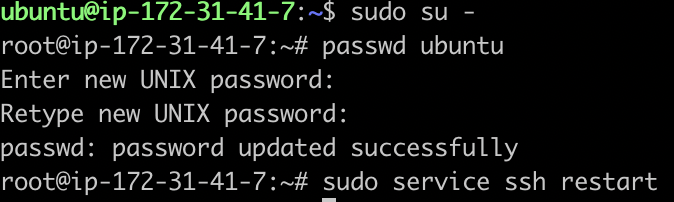
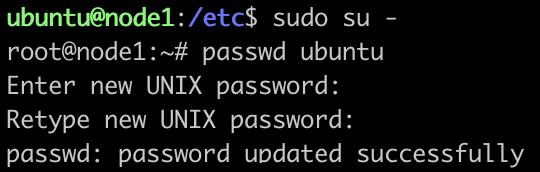
Update AWS Post " [AWS] EC2 Password로 접속하기 : Ubuntu Login with Password "

Changed region(s): [[0.0, 0.0, 0.7704, 0.814], [0.0, 0.814, 0.9778, 1.0], [0.7111, 0.0872, 0.7407, 0.1163]]

diff --git a/_posts/2017-10-30-Ubuntu-Login_Without_PublicKey.md b/_posts/2017-10-30-Ubuntu-Login_Without_PublicKey.md
@@ -1,80 +1,90 @@
 ---
 layout: post
-title:  " Ubuntu Login without Public Key "
+title:  " [AWS] EC2 Password로 접속하기 : Ubuntu Login with Password "
 categories: AWS
 author: goodGid
 ---
 * content
 {:toc}
 
+## Goal
 
-## Problem
+* AWS에서 생성한 EC2 인스턴스는 
 
-* 아마존 웹 서비스(AWS)에서 생성한 EC2 인스턴스는 
+  기본적으로 생성시 발급한 공개키(=**.pem**)로만 접근이 가능하다.
 
-* 기본적으로 생성시 발급한 공개키로만 접근이 가능하다.
-
-* 공개키 접속 방법이 가장 뛰어난 보안성을 제공하지만
-
-* 경우에 따라서 Password를 통한 Login이 필요하다.
-
+* 하지만 Password로 접근하는게 좀 더 편리하기 때문에 
+  
+  공개키가 아닌 Password로 접근하는 방법에 대해 알아보자.
 
 
 
 
 
-## How to Login Using Password
+
+## Login with Password
 
 * Environment : Ubuntu 16.04.3 LTS (GNU/Linux 4.4.0-1022-aws x86_64)
 
-### 1. Login with Public Key
+---
 
-```
+> Step 1. Login with Public Key
+
+``` shell
 ssh -i "goodgid-ec2.pem" ubuntu@ec2-13-124-47-92.ap-northeast-2.compute.amazonaws.com
 ```
 
-### 2. Access Config File
+---
 
-```
+
+> Step 2. Access Config File
+
+``` shell
 sudo vi /etc/ssh/sshd_config
 ```
 
-### 3. Edit Config File
+---
 
-* **PasswordAuthentication** 필드 값만 하여도
 
-* PW로 로그인이 가능하다.
+> Step 3. Edit Config File
+
+* **PasswordAuthentication** 값을 수정한다.
 
 ![](/assets/img/aws/ec2_login_1.png)
 
 
-### 4. Change Password
 
-1. root 권한으로 접속
-
-``` 
-sudo su -
-```
-
-* PW 변경
-
-```
-passwd ubuntu
-```
+---
 
 
-### 5. Restart SSH
+> Step 4. Change Password
 
-``` 
-sudo service ssh restart
+* root 권한으로 접속하여 User Password를 변경한다.
+
+``` shell
+sudo su -       # root 권한 접속
+passwd ubuntu   # Password 변경
 ```
 
 ![](/assets/img/aws/ec2_login_2.png)
 
-### 6. Login without Public Key
+---
+
+
+> Step 5. Restart SSH
+
+``` shell
+sudo service ssh restart
+```
+
+
+
+---
+
+> Step 6. Login without Public Key
 
 ![](/assets/img/aws/ec2_login_3.png)
 
-* **-i "goodgid-ec2.pem"** 옵션없이 로그인이 가능하다.
+* **-i "goodgid-ec2.pem"** 옵션없이 로그인이 가능해졌다.
 
-* @ 앞에 User ID를 입력하면 된다.
+* 접속 시 @ 앞에는 접속할 User ID를 입력하면 된다.
